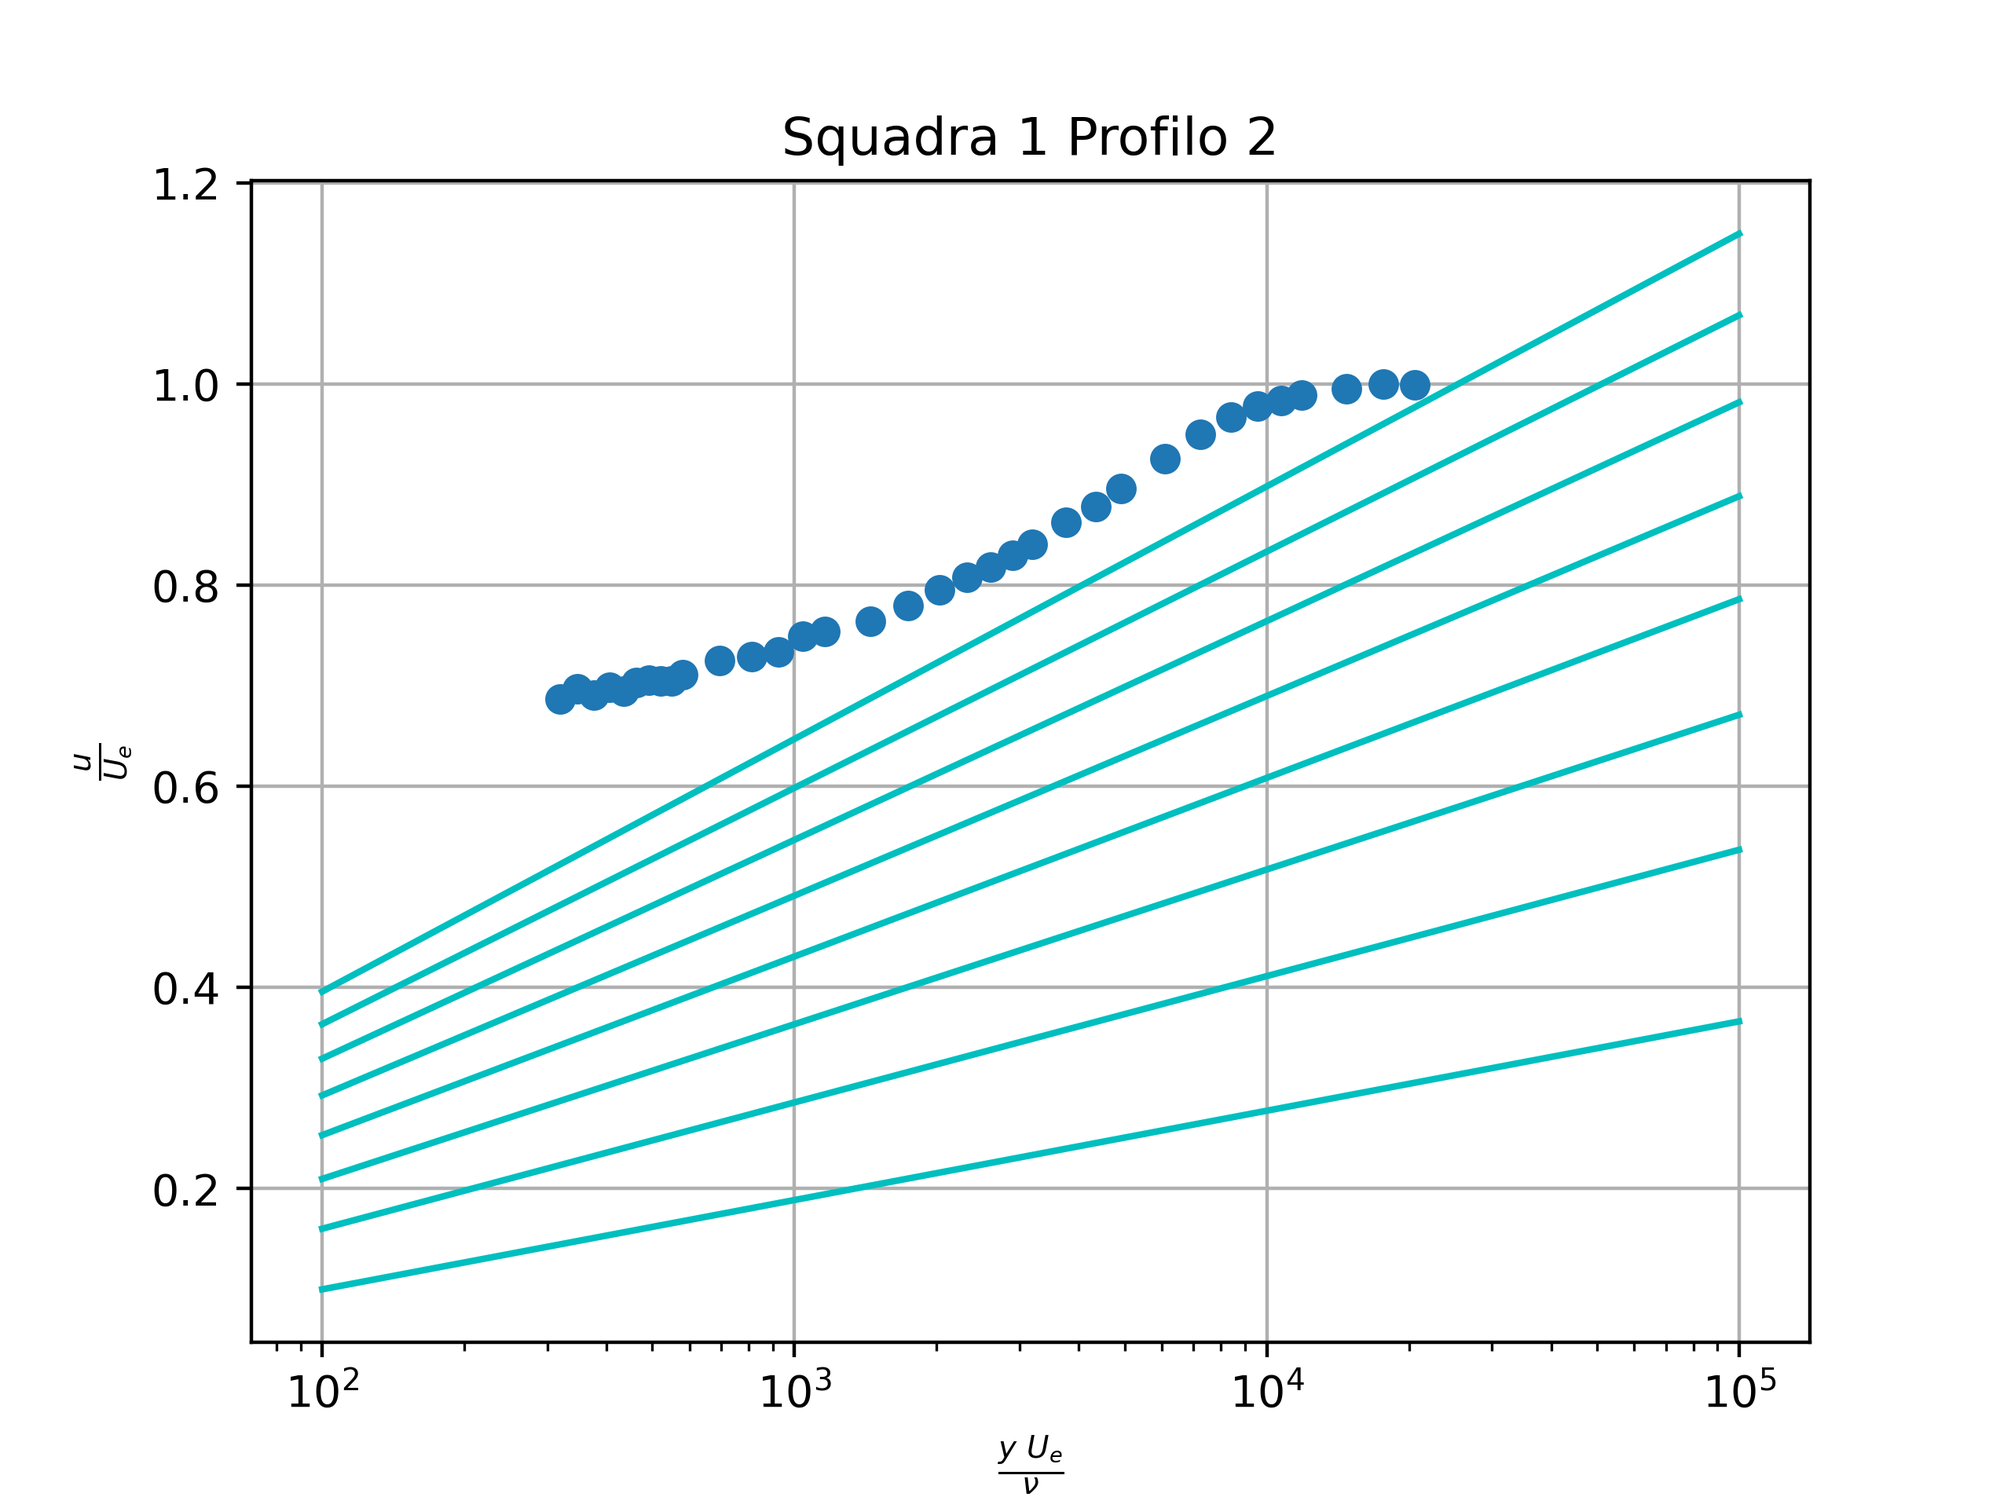
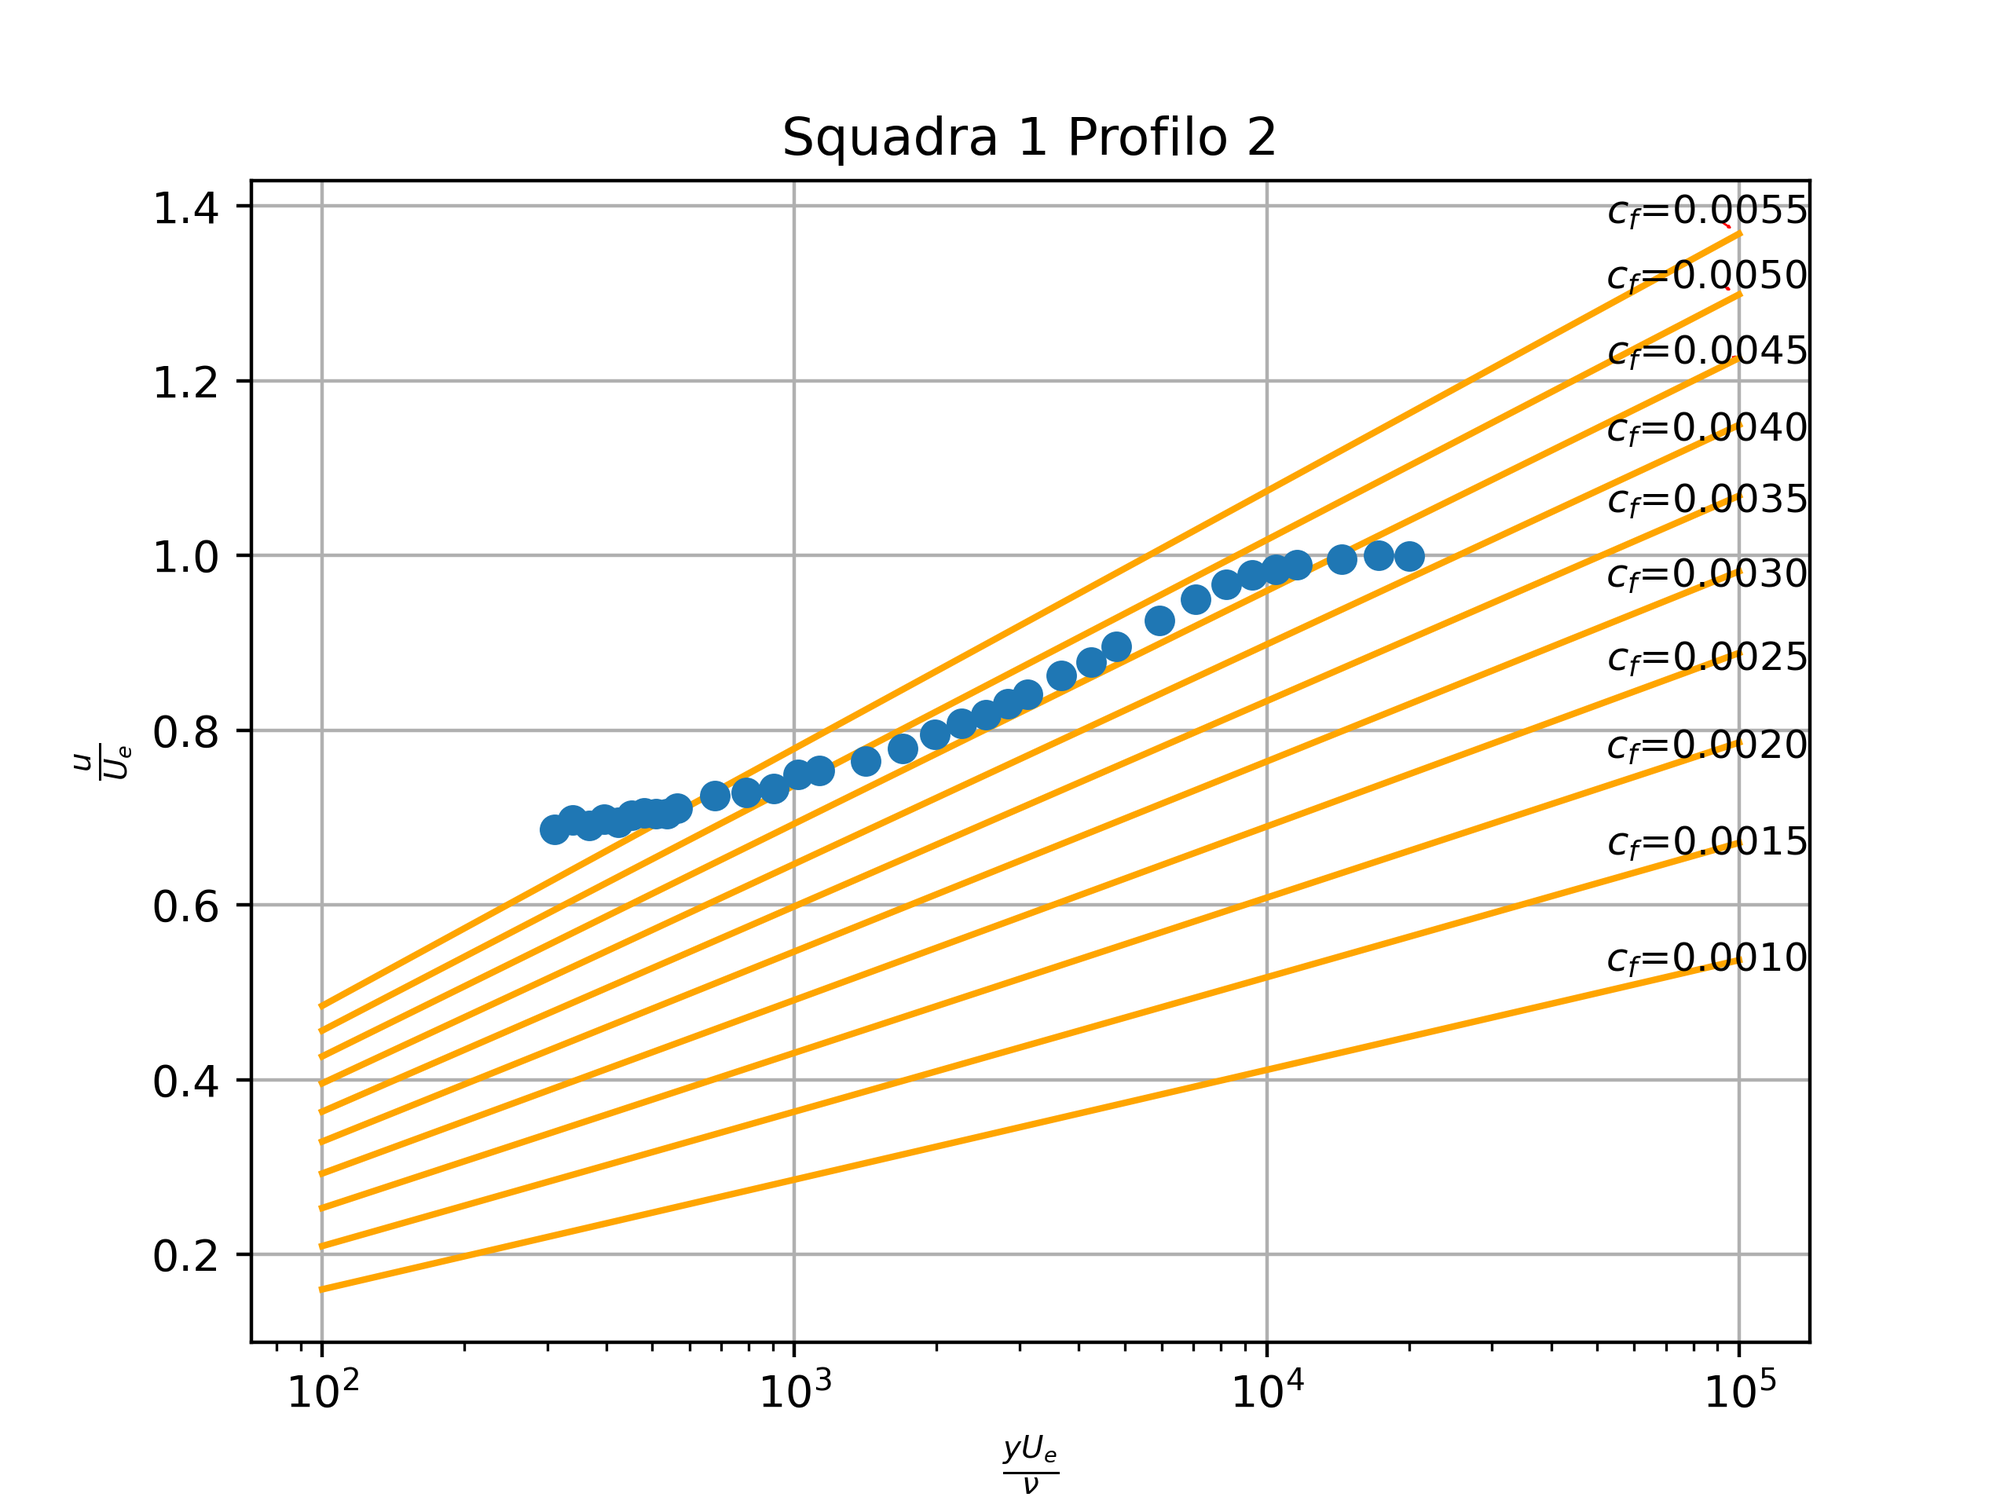
Chapter 9

diff --git a/chapters/9.tex b/chapters/9.tex
@@ -233,7 +233,9 @@ Si ottengono i seguenti risultati per le grandezze caratteristiche dello strato 
     \end{tabular}
 \end{table}
 
-\noindent Come già accennato, i dati risultanti delle formulazioni empiriche per alcune configurazioni si discostano dai risultati sperimentali per via del regime transizionale dello strato limite.\\\\
+\noindent Come già accennato, i dati risultanti delle formulazioni empiriche per alcune configurazioni si discostano dai risultati sperimentali per via del regime transizionale dello strato limite.
+
+\subsubsection{Strato limite laminare}
 Nel caso di strato limite laminare la soluzione delle equazioni porta alla soluzione esatta di Blasius, che definisce il profilo di velocità in forma adimensionale:
 \begin{equation*}
     \eta(x,y) = y\sqrt{\frac{U_\infty}{\nu x}} \qquad \phi = \frac{u}{U_\infty}
@@ -256,79 +258,209 @@ Nel caso di strato limite laminare la soluzione delle equazioni porta alla soluz
 \noindent Si osserva come la soluzione di Blasius approssimi bene i valori dei dati sperimentali, seppur non perfettamente. La discrepanza è dovuta al fatto che nonostante il numero di Reynolds locale $Re_x$ sia inferiore al numero di Reynolds critico $Re_{cr}$, lo strato limite non sia completamente laminare bensì transizionale, e presenti quindi fenomeni di turbolenza intermittente.\\\\
 L'andamento spurio che si evidenzia nei dati sperimentali per la seconda squadra è dovuto ad un'interferenza con il sostegno della sonda a filo caldo durante l'acquisizione dei dati.
 
-% Clauser
+\subsubsection{Strato limite turbolento}
+Nel caso di strato limite turbolento, è opportuno considerare le variabili interne dello strato limite $u^+$ e $y^+$, dove:
+\begin{equation*}
+    y^+ = \frac{y u_\tau}{\nu} \qquad u^+ = \frac{u}{u_\tau} \qquad u_\tau = \sqrt{\frac{\tau_w}{\rho}} = U_e \sqrt{\frac{c_f}2}
+\end{equation*}
+Per ricavare il coefficiente di sforzo di attrito a parete $c_f$ si utilizza il metodo di Clauser, che ricorre alla legge logaritmica di parete:
+\begin{equation*}
+    \frac{u}{u_\tau} = \frac 1k \ln \frac{y u_\tau}{\nu} + C
+\end{equation*}
+Se si moltiplica e divide per la velocità esterna $U_e$, si ottiene:
+\begin{equation*}
+    \frac{u}{U_e} = \frac{u_\tau}{U_e}\left[ \frac 1k \ln\left( \frac{yU_e}{\nu}\frac{u_\tau}{U_e} \right) +C\right] = \sqrt{\frac{c_f}2}\left[ \frac 1k \ln\left( \frac{yU_e}{\nu}\sqrt{\frac{c_f}2} \right) +C\right]
+\end{equation*}
+Il metodo prevede di diagrammare i dati in forma semilogaritmica. In ascisse si riporta $yU_e/\nu$ con asse logaritmico e in ordinate si riporta la velocità adimensionale $u/U_e$ con asse lineare. Si tracciano quindi delle curve parametriche corrispondenti ai profili di velocità al variare del coefficiente di sforzo di attrito a parete $c_f$.
+\newpage
+\noindent In questo modo si costruisce la mappa di Clauser:
+\begin{figure}[H]
+    \centering
+    \includegraphics[width=.8\textwidth]{images/9/sq1p2clauser.png}
+    \caption{Mappa di Clauser per il profilo turbolento della prima squadra}
+\end{figure}
 
-% Grandezze +, RMS +
+\begin{figure}[H]
+    \centering
+    \includegraphics[width=.8\textwidth]{images/9/sq2p2clauser.png}
+    \caption{Mappa di Clauser per il profilo turbolento della seconda squadra}
+\end{figure}
 
-% Analisi temporale, spettro di potenza
+\begin{figure}[H]
+    \centering
+    \includegraphics[width=.8\textwidth]{images/9/sq3p1clauser.png}
+    \caption{Mappa di Clauser per il profilo turbolento della terza squadra}
+\end{figure}
 
+\begin{figure}[H]
+    \centering
+    \includegraphics[width=.8\textwidth]{images/9/sq4p2clauser.png}
+    \caption{Mappa di Clauser per il profilo turbolento della quarta squadra}
+\end{figure}
 
-% \subsection{Strato limite turbolento}
-% \subsubsection{Profilo di velocità media e fluttuazioni di velocità}
-% Si presentano i profili dei sperimentali relativi alle velocità medie e alle fluttuazioni di velocità
+\newpage
+\noindent Dalle mappe di Clauser ottenute è possibile ricavare il coefficiente di sforzo di attrito a parete $c_f$, quindi lo sforzo di attrito a parete $\tau_w$ e la velocità di attrito $u_\tau$, secondo le relazioni:
+\begin{equation*}
+    \tau_ w = \frac12 \rho U_e^2 c_f \qquad u_\tau = \sqrt{\frac{\tau_w}\rho}=U_e\sqrt{\frac{c_f}2}
+\end{equation*}
+Per le quattro squadre si ottiene:\\
+Squadra 1: $c_f = 0.00474\ \rightarrow\ \tau_w = 0.22\,N/m^2$\\
+Squadra 2: $c_f = 0.00447\ \rightarrow\ \tau_w = 0.32\,N/m^2$\\
+Squadra 3: $c_f = 0.00454\ \rightarrow\ \tau_w = 0.33\,N/m^2$\\
+Squadra 4: $c_f = 0.00453\ \rightarrow\ \tau_w = 0.31\,N/m^2$\\\\
+I risultati sperimentali rispettano le leggi empiriche precedentemente enunciate.\\\\
+Una volta ricavata la velocità di attrito, è possibile calcolare le grandezze interne dello strato limite turbolento $u^+$ e $y^+$.\\\\
+Si ottengono quindi i seguenti diagrammi per le quattro squadre, dove si evidenzia un asintoto orizzontale per:
+\begin{equation*}
+    u^+_{asint} = \sqrt{\frac{2}{c_f}} = \frac{U_e}{u_\tau}
+\end{equation*}
+\begin{figure}[H]
+    \centering
+    \includegraphics[width=.85\textwidth]{images/9/sq1p2+.png}
+    \caption{Diagramma $u^+=f(y^+)$ per la prima squadra}
+\end{figure}
 
-% \subsubsection{Profili di velocità media e fluttuazioni adimensionali}
+\begin{figure}[H]
+    \centering
+    \includegraphics[width=.85\textwidth]{images/9/sq2p2+.png}
+    \caption{Diagramma $u^+=f(y^+)$ per la seconda squadra}
+\end{figure}
 
-%  Le velocità medie e le fluttuazioni adimensionalizzate nel caso turbolento con la medesima adimensionalizzazione del caso laminare si presentano come:
+\begin{figure}[H]
+    \centering
+    \includegraphics[width=.85\textwidth]{images/9/sq3p1+.png}
+    \caption{Diagramma $u^+=f(y^+)$ per la terza squadra}
+\end{figure}
 
-% \subsubsection{Diagramma con variabili interne dello strato limite}
-% Si sfrutta il Metodo di Clauser per tracciare i profili di velocità media e delle fluttuazioni adimensionalizzati con le variabili interne dello strato limite.
+\begin{figure}[H]
+    \centering
+    \includegraphics[width=.8\textwidth]{images/9/sq4p2+.png}
+    \caption{Diagramma $u^+=f(y^+)$ per la quarta squadra}
+\end{figure}
 
-% \begin{equation*}
-%     u^+ = \frac{\Bar{U}}{u_\tau} = f(y^+)
-% \end{equation*}
+\noindent Si diagrammano inoltre le fluttuazioni adimensionali $u^+_{rms}$ in funzione della coordinata interna $y^+$:
+\begin{figure}[H]
+    \centering
+    \includegraphics[width=.8\textwidth]{images/9/sq1p2+_rms.png}
+    \caption{Fluttuazioni adimensionali $u^+_{rms}=f(y^+)$ per la prima squadra}
+\end{figure}
 
-% \begin{equation*}
-%     \frac{u_{rms}}{u_\tau} = f(y^+)
-% \end{equation*}
+\begin{figure}[H]
+    \centering
+    \includegraphics[width=.85\textwidth]{images/9/sq2p2+_rms.png}
+    \caption{Fluttuazioni adimensionali $u^+_{rms}=f(y^+)$ per la seconda squadra}
+\end{figure}
 
-% Le variabili interne dello strato limite turbolento si definiscono come:
+\begin{figure}[H]
+    \centering
+    \includegraphics[width=.85\textwidth]{images/9/sq3p1+_rms.png}
+    \caption{Fluttuazioni adimensionali $u^+_{rms}=f(y^+)$ per la terza squadra}
+\end{figure}
 
-% \begin{equation*}
-%     y^+ = \frac{y}{l_\tau}
-% \end{equation*}
+\begin{figure}[H]
+    \centering
+    \includegraphics[width=.85\textwidth]{images/9/sq4p2+_rms.png}
+    \caption{Fluttuazioni adimensionali $u^+_{rms}=f(y^+)$ per la quarta squadra}
+\end{figure}
 
-% \begin{equation*}
-%         l_\tau = \frac{\nu}{u_\tau} \\
-% \end{equation*}
+\noindent Il massimo delle fluttuazioni adimensionali $u^+_{rms}$ si rileva per una coordinata interna $y^+\approx20$, quindi, come previsto dalla teoria, nel buffer layer. Si osserva inoltre dai dati sperimentali che la sonda a filo caldo non ha raggiunto il sottostrato viscoso.
 
-% \begin{equation*}
-%     u_\tau = \frac{\tau _w}{\rho} = U_e \sqrt{\frac{Cf}{2}}
-% \end{equation*}
-% Attraverso il metodo di Clauser è possibile determinare il valore del coefficiente di sforzo d'attrito a parete $C_f = \frac{\tau _w}{\frac{1}{2}\rho U^2_e}$.\\
-% In questo metodo viene sfruttato il log layer per conoscere lo strato interno dello strato limite turbolento e quindi per determinare in modo sommario lo sforzo d'attrito a parete. Infatti nel log layer c'è la possibilità di avere più misurazioni che inoltre sono più accurate.\\
-% Sfruttando quindi la relazione della velocità nel sottostrato logaritmico 
+\subsection{Spettro di potenza}
+Diagrammando la velocità misurata in funzione del tempo in uno strato limite turbolento, si ottiene:
+\begin{figure}[H]
+    \centering
+    \includegraphics[width=.49\textwidth]{images/9/sq2timeseries.png}
+    \includegraphics[width=.49\textwidth]{images/9/sq3timeseries.png}
+    \caption{Velocità misurata in funzione del tempo $u(t)$ (squadre 2 e 3)}
+\end{figure}
 
-% \begin{equation*}
-%     u^+ = \frac{1}{k}logy^+ + C
-% \end{equation*}
+\noindent L'analisi nel dominio del tempo permette di esaminare aspetti locali o istantanei in un flusso turbolento, ma non permette di catturare la distribuzione energetica tra diverse scale spaziali e temporali, né di identificare chiaramente le frequenze dominanti e le interazioni complesse all'interno del flusso.\\\\
+Un'analisi nel dominio delle frequenze, invece, offre una prospettiva più completa delle caratteristiche spettrali e dinamiche del flusso.\\\\
+Per eseguire un'analisi in frequenza, ogni squadra ha effettuato una misura ad un'elevata frequenza di campionamento (fs = 30 kHz, per la quarta squadra fs = 20 kHz) per un periodo $T$ di un minuto (55 secondi per la squadra 4).\\\\
+Dai segnali di tensione in uscita $E_i$ rilevati dalla sonda a filo caldo si ricavano i valori di velocità $U_i$ utilizzando la legge di King:
+\begin{equation*}
+    U_i = \left( \frac{E_i^2-A}B \right)^{1/n}
+\end{equation*}
+Si prosegue utilizzando il metodo di Welch, una tecnica per stimare la densità spettrale di potenza (PSD) di un segnale. Il metodo di Welch suddivide il segnale originale in segmenti sovrapposti, applica una finestra a ciascun segmento, calcola la trasformata di Fourier e stima la PSD per ciascuna finestra ed infine fa una media per ottenere la stima finale della PSD con una varianza ridotta.\\\\
+Il segnale in questione, relativo agli $N$ valori della velocità misurata $U[i]$, è quindi suddiviso in $K$ segmenti sovrapposti di lunghezza $L$, con una sovrapposizione di $D$ campioni. Il numero di segmenti è dato da:
+\begin{equation*}
+    K = \frac{N-D}{L-D}
+\end{equation*}
+Per ogni indice $k$, dove $k=0,1,...,K-1$, si considera il segmento:
+\begin{equation*}
+    U_k[i] = \left\{U[i+k(L-D)]\right\} \text{ per } i=0,1,...,L-1
+\end{equation*}
+Su ogni segmento si applica una finestra $w[i]$ di lunghezza $L$, ottenendo quindi il segnale finestrato:
+\begin{equation*}
+    U_k^w[i] = U_k[i]w[i]
+\end{equation*}
+Applicare una finestra significa moltiplicare ogni segmento del segnale con una funzione finestra, questo processo è importante per ridurre effetti indesiderati dovuti alla discontinuità ai bordi dei segmenti. In particolare, nel caso in esame è applicata una finestra di Hanning (Hann), caratterizzata da una forma coseno che riduce dolcemente i valori verso zero ai bordi:
+\begin{equation*}
+    w[n] = 0.5\left(1-\cos\left( \frac{2\pi n}{N-1} \right)\right)
+\end{equation*}
+Per ogni segmento finestrato $U_k^w[i]$, si calcola la trasformata di Fourier discreta (DFT):
+\begin{equation*}
+    \hat U_k^w[f] = \sum_{i=0}^{L-1} U_k^w[i]e^{-j2\pi fi/L}
+\end{equation*}
+Dove $f=0,1,...,L-1$ sono gli indici di frequenza.\\\\
+Successivamente, si stima la PSD per ciascun segmento $k$:
+\begin{equation*}
+    P_k[f] = \frac 1L \left| \hat U_k^w[f] \right|^2
+\end{equation*}
+La stima finale della PSD è ottenuta mediando le stime di PSD di ciascun segmento:
+\begin{equation*}
+    P[f] = \frac 1K \sum_{k=0}^{K-1} P_k[f]
+\end{equation*}
+Considerando un numero di punti per segmento pari a $L=N/100$ ed un numero di punti in sovrapposizione pari a $D=L/2$, si ottengono i seguenti diagrammi per le quattro squadre:
+\begin{figure}[H]
+    \centering
+    \includegraphics[width=.85\textwidth]{images/9/sq1timeserieswelchcl.png}
+    \caption{Densità spettrale di potenza per la prima squadra ($L=N/100$)}
+\end{figure}
 
-% con k = 0.41 (costante di VonKarman) e C = 5.1 (costante di Coles). Utilizzando le relazione di $u^+$ e $y^+$ si ottiene la seguente formulazione:
+\begin{figure}[H]
+    \centering
+    \includegraphics[width=.8\textwidth]{images/9/sq2timeserieswelchcl.png}
+    \caption{Densità spettrale di potenza per la seconda squadra ($L=N/100$)}
+\end{figure}
 
-% \begin{equation*}
-%     \frac{u}{U_e} = \sqrt{\frac{Cf}{2}}\left[\frac{1}{k}\left(log\frac{yU_e}{\nu} + log\sqrt{\frac{C_f}{2}}\right) + C\right]
-% \end{equation*}
+\begin{figure}[H]
+    \centering
+    \includegraphics[width=.8\textwidth]{images/9/sq3timeserieswelchcl.png}
+    \caption{Densità spettrale di potenza per la terza squadra ($L=N/100$)}
+\end{figure}
 
-% Viene quindi costruita la mappa di Clauser assumendo differenti valori di $C_f$. Sovrapponendo il profilo di velocità sperimentale si osserva quale $C_f$ si avvicina maggiormente ai dati sperimentali.
+\begin{figure}[H]
+    \centering
+    \includegraphics[width=.7\textwidth]{images/9/sq4timeserieswelchcl.png}
+    \caption{Densità spettrale di potenza per la quarta squadra ($L=N/100$)}
+\end{figure}
 
-% Si ricava quindi il $C_f = 0.0045$ con il quale si rappresenta l'andamento della velocità e delle fluttuazioni all'interno dello strato limite
+\noindent Questi diagrammi mostrano in modo molto evidente e chiaro la distribuzione energetica dello strato limite turbolento in funzione delle frequenze, tuttavia, dato il basso numero di punti per segmento, alcune frequenze caratteristiche potrebbero non essere evidenti per motivazioni di tipo numerico. Aumentando il numero di punti per segmento a $L=N/4.5$, si ottengono i seguenti diagrammi:
 
-% \begin{equation*}
-%     u^+ = \frac{U}{u_\tau}
-% \end{equation*}
+\begin{figure}[H]
+    \centering
+    \includegraphics[width=.7\textwidth]{images/9/sq1timeserieswelch.png}
+    \caption{Densità spettrale di potenza per la prima squadra ($L=N/4.5$)}
+\end{figure}
 
-% \begin{equation*}
-%     y^+ = \frac{y}{l_\tau}
-% \end{equation*}
+\begin{figure}[H]
+    \centering
+    \includegraphics[width=.8\textwidth]{images/9/sq2timeserieswelch.png}
+    \caption{Densità spettrale di potenza per la seconda squadra ($L=N/4.5$)}
+\end{figure}
 
-% Si ottiene quindi il seguente diagramma per la velocità adimensionale rispetto alla coordinata interna
+\begin{figure}[H]
+    \centering
+    \includegraphics[width=.8\textwidth]{images/9/sq3timeserieswelch.png}
+    \caption{Densità spettrale di potenza per la terza squadra ($L=N/4.5$)}
+\end{figure}
 
+\begin{figure}[H]
+    \centering
+    \includegraphics[width=\textwidth]{images/9/sq4timeserieswelch.png}
+    \caption{Densità spettrale di potenza per la quarta squadra ($L=N/4.5$)}
+\end{figure}
 
-% Per quanto riguarda le fluttuazioni invece:
-
-% \subsection{Confronto strato limite laminare e turbolento}
-
-% In primo luogo si evidenzia il confronto tra i valori notevoli dello strato limite laminare e turbolento:
-
-
-% Vengono dati anche i grafici di confronto tra gli andamenti dello strato limite laminare e turbolento per la velocità media, le fluttuazioni turbolente e i valori adimensionali.
+\noindent In questi ultimi diagrammi si evidenziano dei picchi nella densità spettrale di potenza corrispondenti a delle frequenze ($f\approx30$ Hz) caratteristiche del sistema. Questi picchi di energia possono essere dovuti a fenomeni di sfilamento vorticoso dei supporti della sonda a filo caldo o del tubo di Pitot all'ingresso della camera di prova.\\\\
+I picchi di energia che invece si osservano a valori di frequenza più alti sono probabilmente dovuti a fenomeni numerici spuri o ad interferenze di tipo elettromagnetico.
